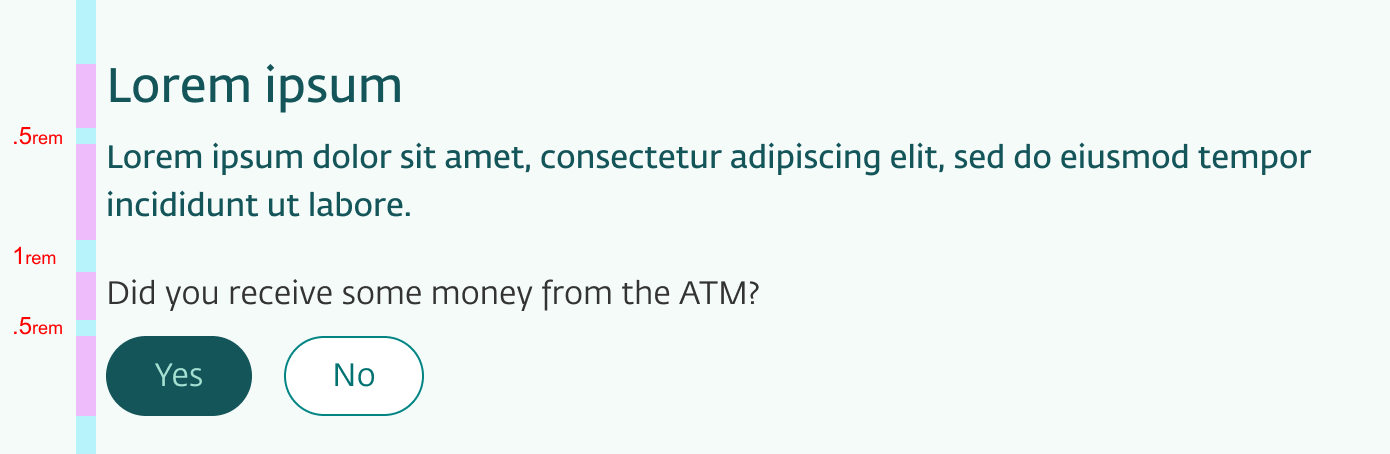
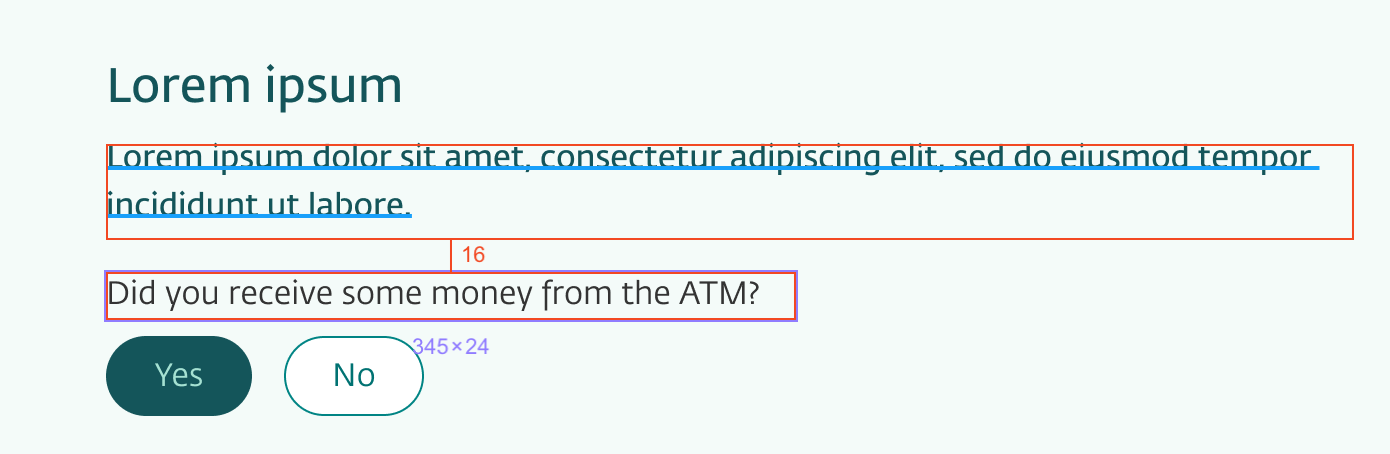
docs: enhance docs about UX handover, layout and spacing

Changed region(s): [[0.0, 0.0, 0.959, 1.0], [0.2784, 0.7401, 0.3712, 0.8018]]

diff --git a/packages/dnb-design-system-portal/src/pages/uilib/intro/03-ux-handover.md b/packages/dnb-design-system-portal/src/pages/uilib/intro/03-ux-handover.md
@@ -16,14 +16,31 @@ To get the details and properties about the layout, styles and the used componen
 
 Remember, everything should be in the **8px grid** (0.5rem) spacing - even it the designer sometimes are one or two pixels of, you now know what it should be.
 
-![Spacing](./assets/ux-handover-spacing.png)
+1. Select an area by a single _click_.
+2. _Hover_ on the next areas to se the spacing between them.
 
-## Handover
+![What spacing is used](./assets/ux-handover-spacing.png)
 
-1. First, select and area by one click.
-2. Second, hover on the next by areas to se the distance.
+## Components
 
-![Figma UX handover](./assets/ux-handover.png)
+1. Select a component by a single _click_.
+2. Have a look at the _Pages_ pane on the left side.
+
+![What component is used](./assets/ux-handover-component.png)
+
+## Typography
+
+1. Select a text by a single _click_.
+2. Have a look at the _Properties_ pane on the right side.
+
+![What typography is used](./assets/ux-handover-typography.png)
+
+## Color
+
+1. Select an area by a single _click_.
+2. Have a look at the _Properties_ pane on the right side. Only use the color name as the reference. Do not copy HEX codes.
+
+![What color is uses](./assets/ux-handover-color.png)
 
 <IntroFooter href="/uilib/intro/04-eufemia-for-developers" text="Next - Eufemia for Developers" />
 

diff --git a/packages/dnb-design-system-portal/src/pages/uilib/intro/13-accessibility.md b/packages/dnb-design-system-portal/src/pages/uilib/intro/13-accessibility.md
@@ -10,6 +10,50 @@ order: 12
 
 **This is important!** You as a developer has the responsibility to implement and [use best practices](!/uilib/usage/accessibility) to make applications accessible for every end user.
 
+## ARIA Examples
+
+Example usage of `role`, `aria-label`, `aria-labelledby` and `aria-hidden`.
+
+```html
+<a aria-label="Describe the action" href="/action" className="dnb-anchor">
+  <svg aria-hidden="true" ... />
+</a>
+
+<div role="alert">Dynamic content alert message</div>
+
+<img role="presentation" alt="image alt" src="..." />
+
+<figure aria-labelledby="figure-id" role="group">
+  <img alt="image alt" src="..." />
+  <figcaption id="figure-id">Description <cite>Name</cite> ...</figcaption>
+</figure>
+```
+
+## Semantic Elements
+
+Example usage of HTML5 `landmarks`.
+
+```html
+<body>
+  <header>Header</header>
+  <nav>Main Navigation</nav>
+  <section>
+    <h1>Section</h1>
+    ...
+  </section>
+  <article>
+    <h2>Article</h2>
+    ...
+  </article>
+  <article>
+    <h2>Article</h2>
+    ...
+  </article>
+  <aside>Aside the Section and the Articles</aside>
+  <footer>Footer</footer>
+</body>
+```
+
 ---
 
 <IntroFooter href="/uilib/intro/14-helper-classes" text="Next - Helper Classes" />

diff --git a/packages/dnb-design-system-portal/src/pages/uilib/intro/10-components-elements-patterns.md b/packages/dnb-design-system-portal/src/pages/uilib/intro/10-components-elements-patterns.md
@@ -4,13 +4,31 @@ draft: true
 order: 10
 ---
 
+import { Button } from 'dnb-ui-lib/src'
+
 <Intro>
 
 # Components, Elements and Patterns
 
-- [Components](!/uilib/components) are custom made **user interaction elements** with an internal state, your application can interact with.
-- [Elements](!/uilib/elements) are basicity ready to use styled HTML elements.
-- [Patterns](!/uilib/patterns) are larger components, less strictly defined, but with a more flexible outcome.
+## [Components](!/uilib/components)
+
+Components are custom made **user interaction elements** with an internal state, your application can interact with.
+
+<div className="example-box" align="center">
+  <Button text="Button" />
+</div>
+
+## [Elements](!/uilib/elements)
+
+Elements are basicity ready to use styled HTML elements.
+
+<div className="example-box" align="center">
+  <a className="dnb-anchor" href="/">Anchor (Text Link)</a>
+</div>
+
+## [Patterns](!/uilib/patterns)
+
+Patterns are larger components, less strictly defined, but with a more flexible outcome.
 
 ---
 

diff --git a/packages/dnb-design-system-portal/src/pages/uilib/usage/accessibility.md b/packages/dnb-design-system-portal/src/pages/uilib/usage/accessibility.md
@@ -16,7 +16,7 @@ Make sure your applications are [**universally designed**](https://uu.difi.no) a
 - define the tab navigation and [focus management](/uilib/usage/accessibility/focus#managing-the-focus-state) properly
 - have a [Skip Link](/uilib/usage/accessibility/focus#skip-link) in place
 - properly use the `for="#id"` attribute on [labels](https://developer.mozilla.org/en-US/docs/Web/HTML/Element/label#Attributes)
-- make good use of `area-label` and `aria-hidden`, e.g. of [decorative content](/uilib/usage/accessibility/icons#decorative-icons)
+- make good use of `aria-label` and `aria-hidden`, e.g. of [decorative content](/uilib/usage/accessibility/icons#decorative-icons)
 - have `aria-live` in place for dynamic content
 - hide "hidden" content with `display: none;`, HTML `hidden` attribute or remove the markup entirely (like React States)
 - allow zooming in web pages. Example:

diff --git a/packages/dnb-design-system-portal/src/pages/uilib/usage/layout.md b/packages/dnb-design-system-portal/src/pages/uilib/usage/layout.md
@@ -10,7 +10,9 @@ To not overcomplicate the Eufemia - and limit the creativity and possibilities, 
 
 ## Spacing
 
-Eufemia has a [Spatial System](/quickguide-designer/spatial-system) with a grid of **8px**. This is simply a guide grid which helps with making design decisions about the sizes of components, elements, margins, paddings etc.
+Eufemia has a [Spatial System](/quickguide-designer/spatial-system) with a grid of **8px** (0.5rem). This is simply a guide grid which helps with making design decisions about the sizes of components, elements, margins, paddings etc.
+
+![UX layout spacing](./assets/ux-layout-spacing.png)
 
 ### Responsiveness
 

diff --git a/packages/dnb-design-system-portal/src/pages/uilib/intro/09-layout.md b/packages/dnb-design-system-portal/src/pages/uilib/intro/09-layout.md
@@ -14,6 +14,12 @@ To get a good user experience and a professional looking result, perfect layouti
 - Use `rem` units for layouts and spacing.
 - Use **CSS Flexbox** or **CSS Grid** as layout systems.
 
+## Spacing
+
+Remember, everything should be in the **8px grid** (0.5rem) spacing - even it the designer sometimes are one or two pixels of, you now know what it should be.
+
+![UX layout spacing](../usage/assets/ux-layout-spacing.png)
+
 You may have a [look at the layout docs](!/uilib/usage/layout)
 
 ---
